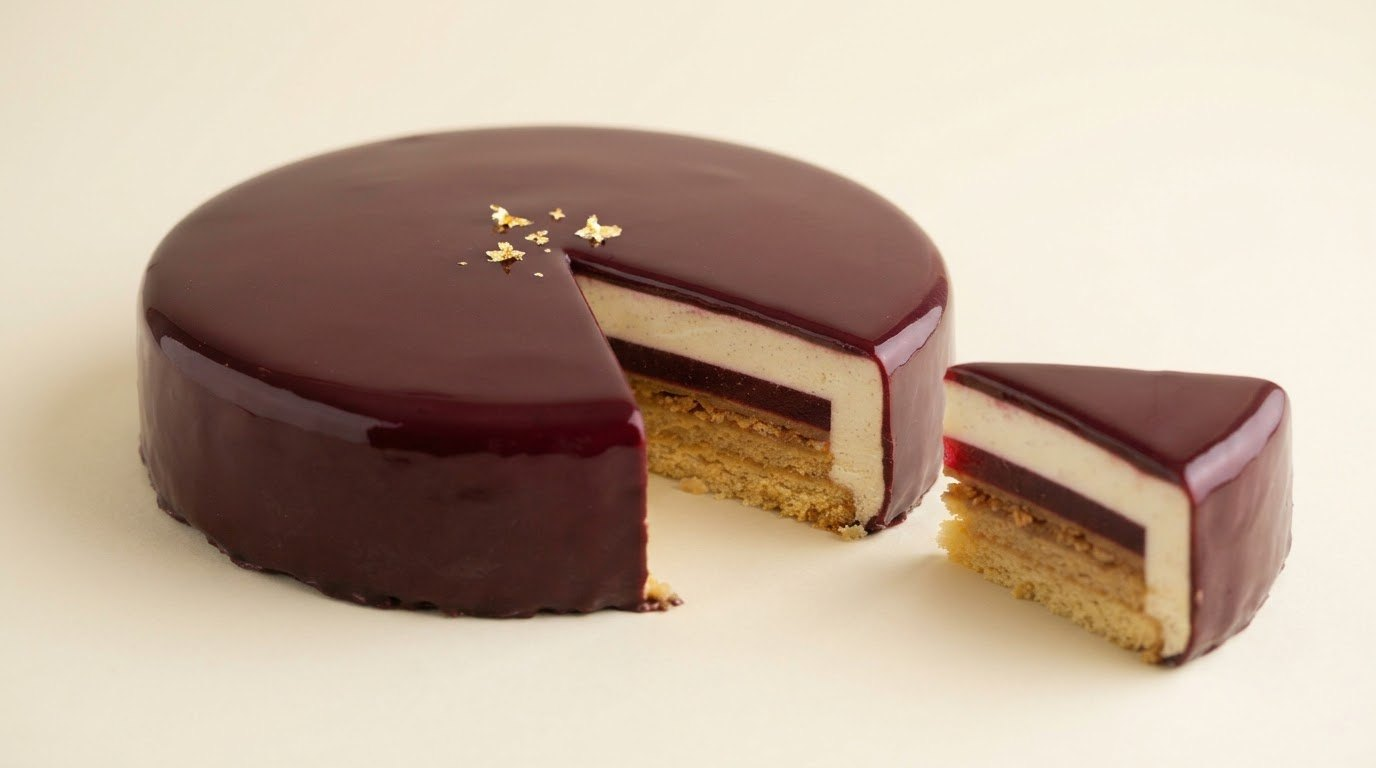
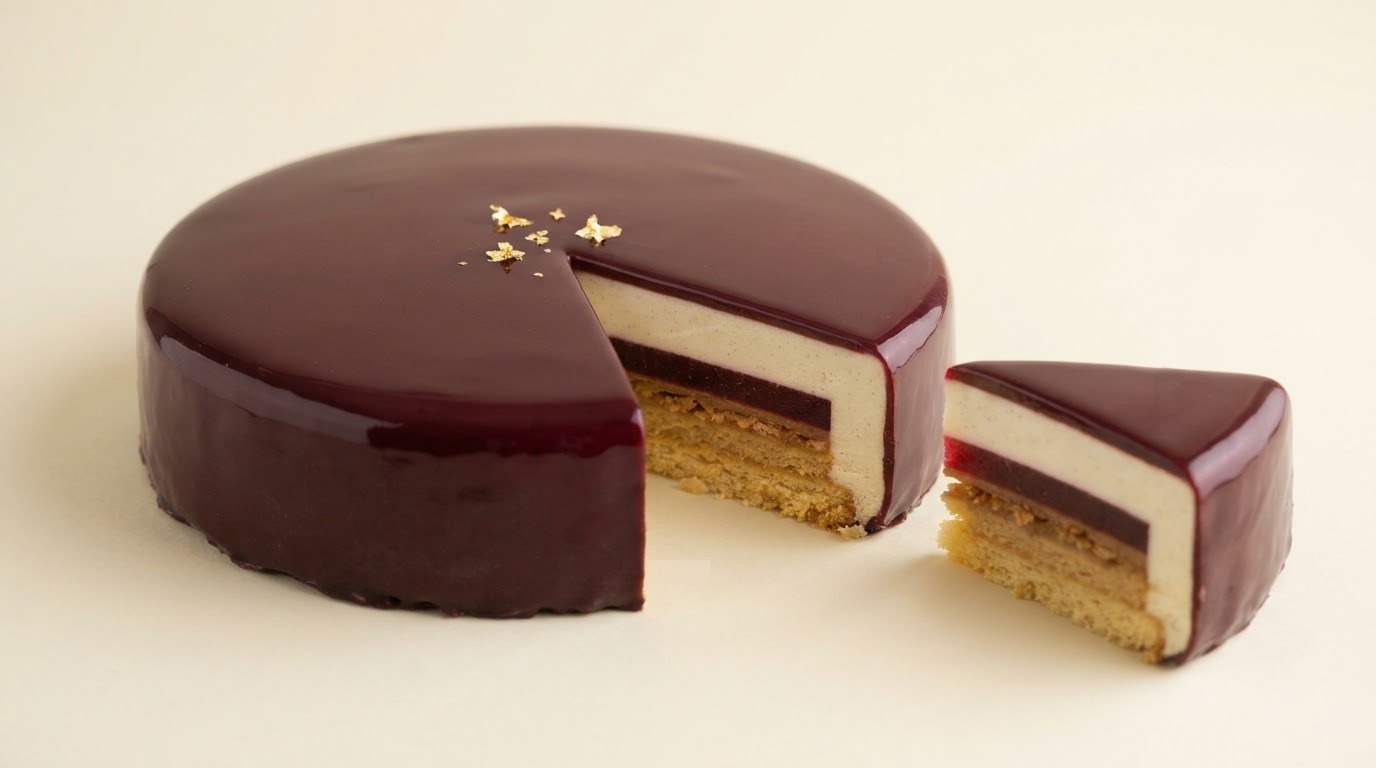
Add files via upload

diff --git a/index.html b/index.html
@@ -72,7 +72,7 @@ a{color:inherit}
 .hs-base,.hs-entier,.hs-final{inset:0;width:100%;height:100%}
 .hs-final{opacity:0}
 /* la part : position finale mesurée sur la photo (px de l'image 1376 × 768) */
-.hs-part{left:67.95%;top:46.74%;width:26.31%;height:auto;transform-origin:30% 60%;filter:drop-shadow(0 14px 12px rgba(70,25,20,.18))}
+.hs-part{left:67.95%;top:46.48%;width:26.31%;height:auto;transform-origin:30% 60%;filter:drop-shadow(0 14px 12px rgba(70,25,20,.18))}
 .hero-scene.go .hs-entier{animation:hsFondu .9s ease .45s both}
 .hero-scene.go .hs-part{animation:hsPart 1.5s cubic-bezier(.22,.8,.2,1) .3s both}
 .hero-scene.go .hs-final{animation:hsFin .45s ease 1.7s both}
